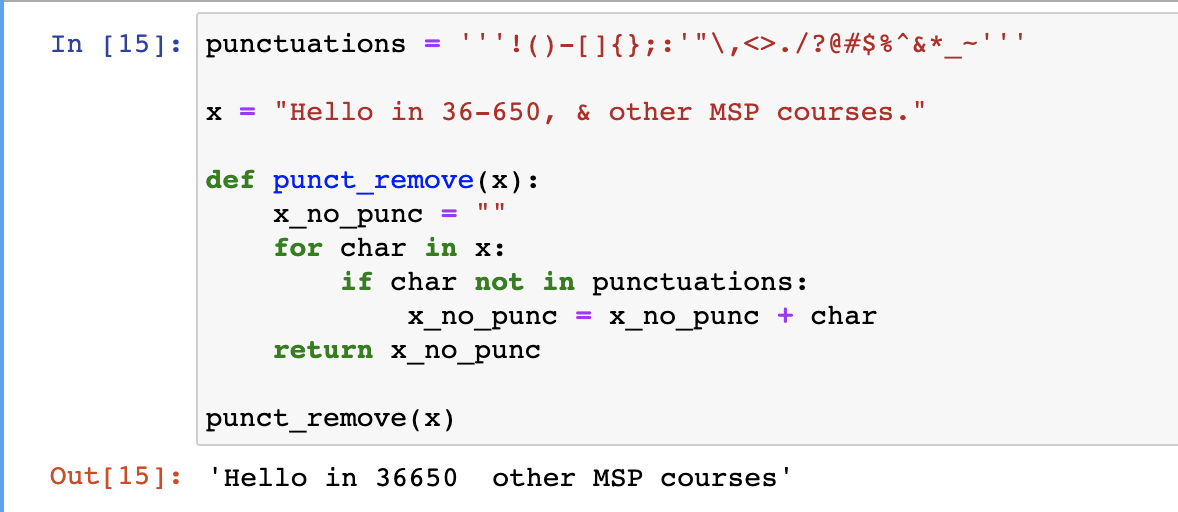
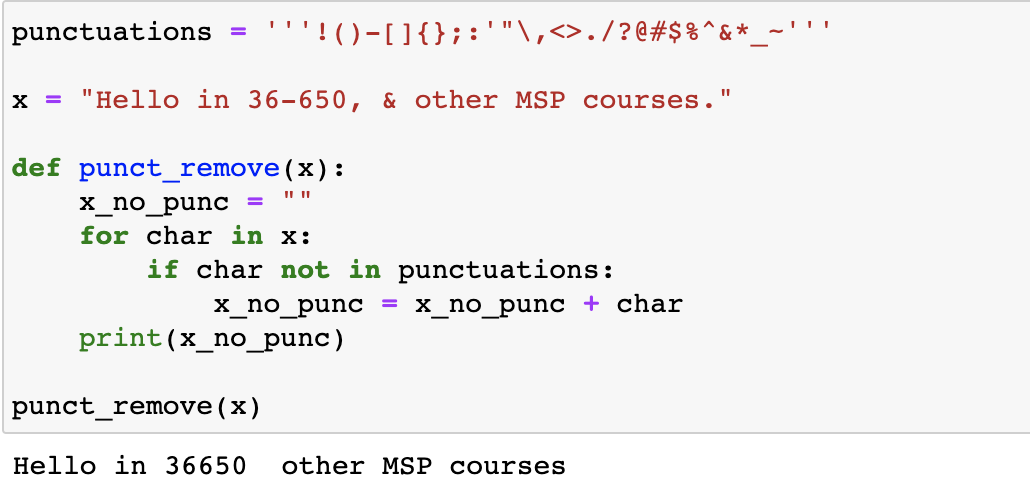
update

Changed region(s): [[0.0, 0.0, 1.0, 1.0], [0.0621, 0.6024, 0.7456, 0.7229], [0.0932, 0.1807, 0.7767, 0.241]]

diff --git a/HW-5/Q1/Q1.py b/HW-5/Q1/Q1.py
@@ -1,12 +1,14 @@
-punctuations = '''!()-[]{};:'"\,<>./?@#$%^&*_~'''
+def mtr_transpose(X):
+    result=[]
+    for j in range(len(X[0])):
+        row=[]
+        for i in range(len(X)):
+            row.append(X[i][j])
+        print(row)
 
-x = "Hello in 36-650, & other MSP courses."
+            
+A = [[10, 8],
+    [2, 4],
+    [1, 7]]
 
-def punct_remove(x):
-    x_no_punc = ""
-    for char in x:
-        if char not in punctuations:
-            x_no_punc = x_no_punc + char
-    print(x_no_punc)
-
-punct_remove(x)
+mtr_transpose(A)

diff --git a/HW-5/Q2/Q2.py b/HW-5/Q2/Q2.py
@@ -1,12 +1,12 @@
 punctuations = '''!()-[]{};:'"\,<>./?@#$%^&*_~'''
 
+x = "Hello in 36-650, & other MSP courses."
+
 def punct_remove(x):
     x_no_punc = ""
     for char in x:
         if char not in punctuations:
             x_no_punc = x_no_punc + char
-    return x_no_punc
+    print(x_no_punc)
 
-x = "Hello in 36-650, & other MSP courses."
-
-print(punct_remove(x))
+punct_remove(x)
